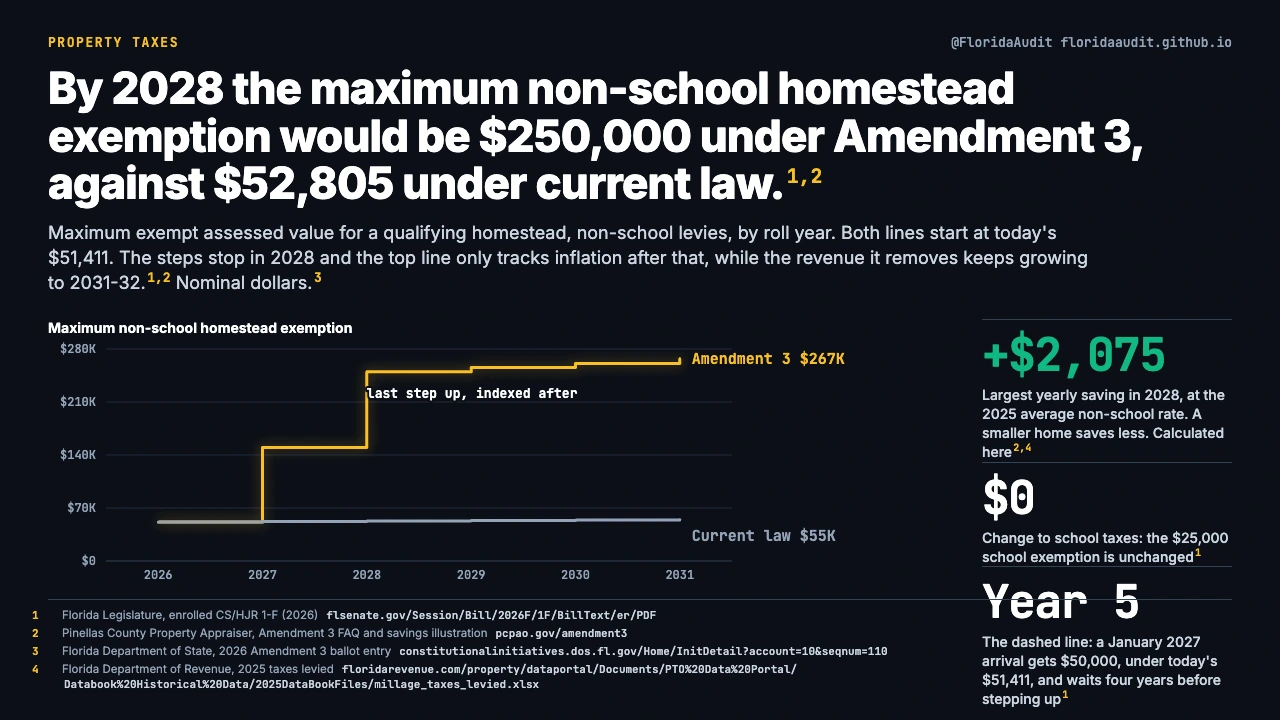
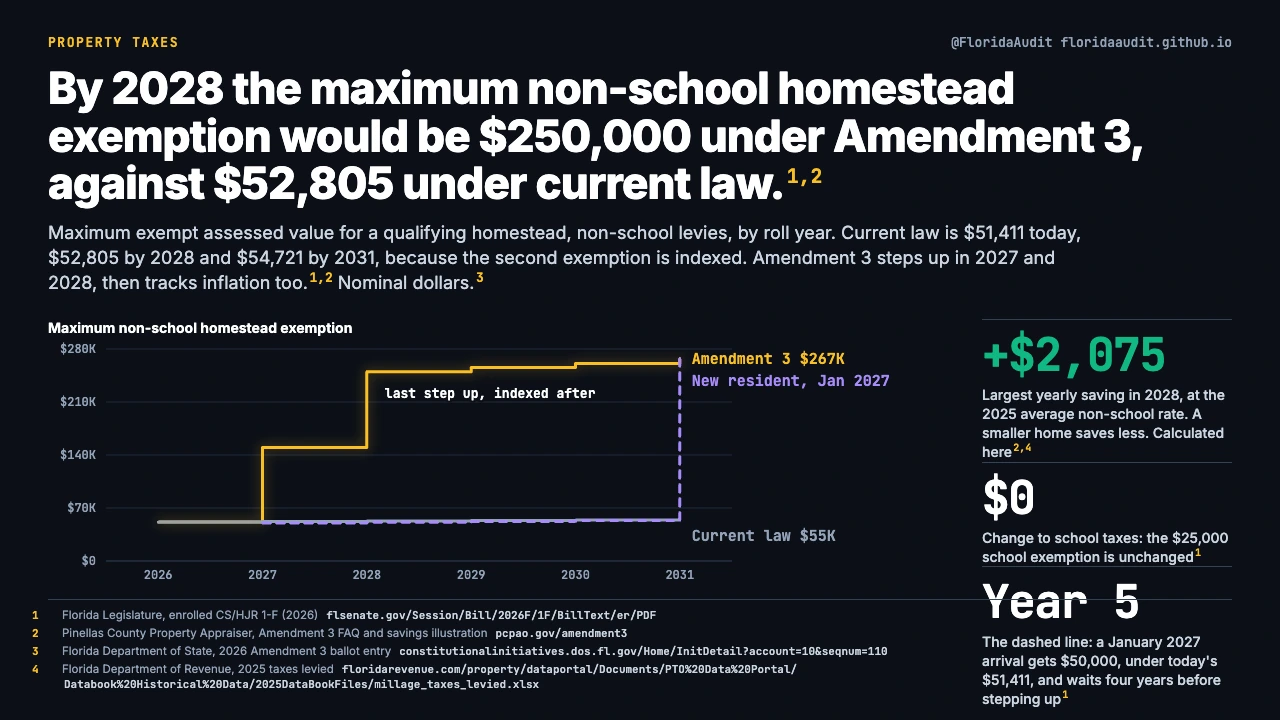
Chart images rebuilt

diff --git a/c/property-taxes/homestead-exemption-amounts.html b/c/property-taxes/homestead-exemption-amounts.html
@@ -15,13 +15,13 @@
   <meta property="og:image" content="https://floridaaudit.github.io/charts/property-taxes/homestead-exemption-amounts-card.png">
   <meta property="og:image:width" content="1200">
   <meta property="og:image:height" content="630">
-  <meta property="og:image:alt" content="By 2028 the maximum non-school homestead exemption would be $250,000 under Amendment 3, against $52,805 under current law. Maximum exempt assessed value for a qualifying homestead, non-school levies, by roll year. Both lines start at today's $51,411. The steps stop in 2028 and the top line only tracks inflation after that, while the revenue it removes keeps growing to 2031-32. Nominal dollars.">
+  <meta property="og:image:alt" content="By 2028 the maximum non-school homestead exemption would be $250,000 under Amendment 3, against $52,805 under current law. Maximum exempt assessed value for a qualifying homestead, non-school levies, by roll year. Current law is $51,411 today, $52,805 by 2028 and $54,721 by 2031, because the second exemption is indexed. Amendment 3 steps up in 2027 and 2028, then tracks inflation too. Nominal dollars.">
   <meta name="twitter:card" content="summary_large_image">
   <meta name="twitter:site" content="@FloridaAudit">
   <meta name="twitter:title" content="By 2028 the maximum non-school homestead exemption would be $250,000 under Amendment 3, against $52,805 under current law.">
   <meta name="twitter:description" content="Property Taxes: Maximum exempt assessed value for a qualifying homestead, non-school levies, by roll year.">
   <meta name="twitter:image" content="https://floridaaudit.github.io/charts/property-taxes/homestead-exemption-amounts-card.png">
-  <meta name="twitter:image:alt" content="By 2028 the maximum non-school homestead exemption would be $250,000 under Amendment 3, against $52,805 under current law. Maximum exempt assessed value for a qualifying homestead, non-school levies, by roll year. Both lines start at today's $51,411. The steps stop in 2028 and the top line only tracks inflation after that, while the revenue it removes keeps growing to 2031-32. Nominal dollars.">
+  <meta name="twitter:image:alt" content="By 2028 the maximum non-school homestead exemption would be $250,000 under Amendment 3, against $52,805 under current law. Maximum exempt assessed value for a qualifying homestead, non-school levies, by roll year. Current law is $51,411 today, $52,805 by 2028 and $54,721 by 2031, because the second exemption is indexed. Amendment 3 steps up in 2027 and 2028, then tracks inflation too. Nominal dollars.">
   <link rel="icon" href="/assets/favicon.png" type="image/png">
   <link rel="stylesheet" href="/assets/site.css">
   <script type="application/ld+json">
@@ -71,9 +71,9 @@
   <article>
     <p class="kicker">Property Taxes</p>
     <h1>By 2028 the maximum non-school homestead exemption would be $250,000 under Amendment 3, against $52,805 under current law.</h1>
-    <p class="sub">Maximum exempt assessed value for a qualifying homestead, non-school levies, by roll year. Both lines start at today's $51,411. The steps stop in 2028 and the top line only tracks inflation after that, while the revenue it removes keeps growing to 2031-32. Nominal dollars.</p>
+    <p class="sub">Maximum exempt assessed value for a qualifying homestead, non-school levies, by roll year. Current law is $51,411 today, $52,805 by 2028 and $54,721 by 2031, because the second exemption is indexed. Amendment 3 steps up in 2027 and 2028, then tracks inflation too. Nominal dollars.</p>
     <figure>
-      <img src="/charts/property-taxes/homestead-exemption-amounts.webp" width="1280" height="720" alt="By 2028 the maximum non-school homestead exemption would be $250,000 under Amendment 3, against $52,805 under current law. Maximum exempt assessed value for a qualifying homestead, non-school levies, by roll year. Both lines start at today's $51,411. The steps stop in 2028 and the top line only tracks inflation after that, while the revenue it removes keeps growing to 2031-32. Nominal dollars.">
+      <img src="/charts/property-taxes/homestead-exemption-amounts.webp" width="1280" height="720" alt="By 2028 the maximum non-school homestead exemption would be $250,000 under Amendment 3, against $52,805 under current law. Maximum exempt assessed value for a qualifying homestead, non-school levies, by roll year. Current law is $51,411 today, $52,805 by 2028 and $54,721 by 2031, because the second exemption is indexed. Amendment 3 steps up in 2027 and 2028, then tracks inflation too. Nominal dollars.">
       <figcaption>Full size: <a href="/charts/property-taxes/homestead-exemption-amounts.png">PNG, 2560 by 1440</a></figcaption>
     </figure>
     <p class="download"><a href="/data/property-taxes/exemption-schedule.csv">Download the data behind this chart (exemption-schedule.csv)</a></p>

diff --git a/c/property-taxes/index.html b/c/property-taxes/index.html
@@ -28,7 +28,7 @@
       <dt>What these charts establish</dt><dd>What the amendment's text does and who it reaches: homesteads, non-homestead property through a lower assessment cap, and renters not at all. It also carries the state Revenue Estimating Conference's estimate of lost local revenue, statewide and county by county. It does not show how counties and cities would respond.</dd>
     </dl>
     <ul class="topic-charts">
-      <li><a href="/c/property-taxes/homestead-exemption-amounts.html"><img src="/charts/property-taxes/homestead-exemption-amounts.webp" width="1280" height="720" alt="By 2028 the maximum non-school homestead exemption would be $250,000 under Amendment 3, against $52,805 under current law. Maximum exempt assessed value for a qualifying homestead, non-school levies, by roll year. Both lines start at today's $51,411. The steps stop in 2028 and the top line only tracks inflation after that, while the revenue it removes keeps growing to 2031-32. Nominal dollars." loading="lazy"><span>By 2028 the maximum non-school homestead exemption would be $250,000 under Amendment 3, against $52,805 under current law.</span></a></li>
+      <li><a href="/c/property-taxes/homestead-exemption-amounts.html"><img src="/charts/property-taxes/homestead-exemption-amounts.webp" width="1280" height="720" alt="By 2028 the maximum non-school homestead exemption would be $250,000 under Amendment 3, against $52,805 under current law. Maximum exempt assessed value for a qualifying homestead, non-school levies, by roll year. Current law is $51,411 today, $52,805 by 2028 and $54,721 by 2031, because the second exemption is indexed. Amendment 3 steps up in 2027 and 2028, then tracks inflation too. Nominal dollars." loading="lazy"><span>By 2028 the maximum non-school homestead exemption would be $250,000 under Amendment 3, against $52,805 under current law.</span></a></li>
       <li><a href="/c/property-taxes/homeowner-savings.html"><img src="/charts/property-taxes/homeowner-savings.webp" width="1280" height="720" alt="From 2028, the exemption would cut a homestead's non-school property tax by at most $2,075 a year. Yearly saving for one qualifying homestead, not for a household: the exempt value added over the 2026 maximum ($98,589 in 2027, $198,589 in 2028), taxed at an average non-school rate, with no rate or inflation changes. $2,075 is the ceiling, reached only by a home with enough assessed value to use the whole exemption; below that a home saves in proportion to its assessed value, and a renter saves nothing. The statewide figure is calculated here from Department of Revenue millage. Pinellas County is the sole county who published its own illustration, at 12.2011 mills against the state's 10.449." loading="lazy"><span>From 2028, the exemption would cut a homestead's non-school property tax by at most $2,075 a year.</span></a></li>
       <li><a href="/c/property-taxes/renters-and-new-residents.html"><img src="/charts/property-taxes/renters-and-new-residents.webp" width="1280" height="720" alt="Florida's 2.92 million renter households would get no homestead exemption. Occupied housing units by tenure, Florida, 2024. The exemption attaches to an owner's permanent residence, so the owner-occupied share is the pool that can claim one and no part of Amendment 3 reaches a renter directly. The census counts occupancy, not exemptions." loading="lazy"><span>Florida's 2.92 million renter households would get no homestead exemption.</span></a></li>
       <li><a href="/c/property-taxes/local-revenue-impact.html"><img src="/charts/property-taxes/local-revenue-impact.webp" width="1280" height="720" alt="Amendment 3 would reduce local non-school property tax revenue by an estimated $11.83 billion a year by 2031. Estimated reduction in local non-school property tax revenue by the government that levies it. On the November 3, 2026 ballot; needs 60% to pass. Ten counties carry $7.54B of it, led by Miami-Dade $1.39B and Broward $1.19B, with all 67 in the CSV. It keeps growing after the exemption stops stepping up in 2028, because the conference counts the sixth year as the recurring impact and the lower assessment cap compounds. Holds 2025 tax rates constant. Nominal dollars." loading="lazy"><span>Amendment 3 would reduce local non-school property tax revenue by an estimated $11.83 billion a year by 2031.</span></a></li>
